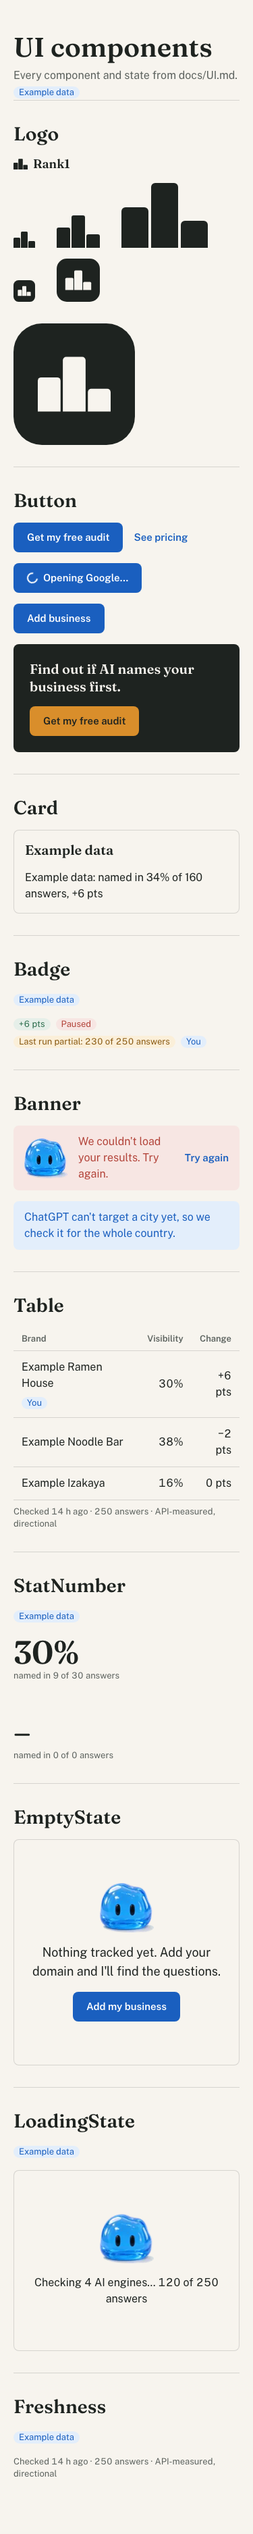
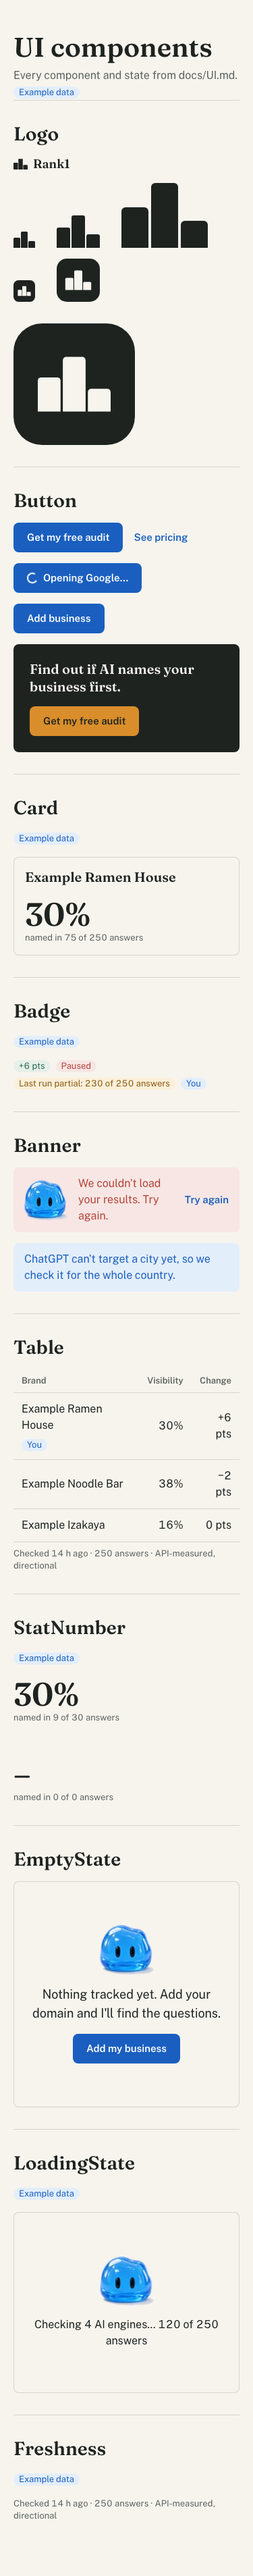
step 0: qa report (final)

diff --git a/docs/QA.md b/docs/QA.md
@@ -1,12 +1,12 @@
 # QA
 
-## Step 0: Set up the project (re-run)
+## Step 0: Set up the project (final)
 
-Checked 2026-11-05 on commit d864d72 (branch step-0-claude-md).
-Preview: https://rank1-c5us4op76-bryan-flowhighlevels-projects.vercel.app (Vercel API: git ref step-0-claude-md, sha d864d72, READY).
+Checked 2026-11-05 on commit 26a1aef (branch step-0-claude-md).
+Preview: https://rank1-oq7rbwrkg-bryan-flowhighlevels-projects.vercel.app (Vercel API: git ref step-0-claude-md, sha 26a1aef, READY).
 Preview runs use VERCEL_AUTOMATION_BYPASS_SECRET from .env.local, sent as x-vercel-protection-bypass (playwright.config.ts).
 
-Result: FAIL. 1 blocking problem, listed at the end. The axe failure from the first run is fixed.
+Result: PASS. Every check passes locally and on the preview. No blocking problems.
 
 ### Commands
 
@@ -15,10 +15,10 @@ Result: FAIL. 1 blocking problem, listed at the end. The axe failure from the fi
 | `pnpm test` | PASS. 7 files, 28 tests passed |
 | `pnpm typecheck` | PASS. exit 0 |
 | `pnpm lint` | PASS. exit 0 |
-| `pnpm e2e` (local, `.next` deleted first, fresh `next build`) | PASS. 12 passed, 0 failed |
-| `E2E_BASE_URL=<preview> pnpm e2e` | PASS. 12 passed, 0 failed |
+| `pnpm e2e` (local, `.next` deleted first, fresh `next build`) | PASS. 14 passed, 0 failed |
+| `E2E_BASE_URL=<preview> pnpm e2e` | PASS. 14 passed, 0 failed |
 
-Tests changed since the first run: tests/unit/tokens.test.ts changed only the errorBg value to #F7E6E3 (matches UI.md). New: tests/unit/ui/logo.test.tsx, tests/unit/example-data.test.ts, tests/e2e/logo.spec.ts, tests/e2e/dev-ui-example-data.spec.ts. No test deleted, skipped or weakened.
+Tests changed since the first run: tests/unit/tokens.test.ts changed only the errorBg value to #F7E6E3 (matches UI.md). New: tests/unit/ui/logo.test.tsx, tests/unit/example-data.test.ts, tests/e2e/logo.spec.ts, tests/e2e/dev-ui-example-data.spec.ts. 26a1aef adds one test to tests/e2e/dev-ui-example-data.spec.ts (Card demo is Example Ramen House, "34% of 160 answers" absent). No test deleted, skipped or weakened.
 
 ### TASKS.md step 0
 
@@ -42,9 +42,9 @@ Tests changed since the first run: tests/unit/tokens.test.ts changed only the er
 | 375px has no horizontal scroll | PASS | preview: scrollWidth 375 at 375px, 1280 at 1280px |
 | Tap targets >= 44px | PASS | dev-ui.spec.ts:28 passed, local and preview |
 | No secrets in client bundle | PASS | Fresh local build (20 files in .next/static): no match for `sk_(test|live)_`, `whsec_`, `service_role`, JWT `eyJhbGciOi`, `pplx-`, `re_`, `GOCSPX-`; no server-only env name from .env.example; neither .env.local value present |
-| No fake numbers | FAIL | Badge, Table, StatNumber, LoadingState and Freshness now use example-data.ts, and every section is labeled Example data (dev-ui-example-data.spec.ts passed). One string is still typed in: src/app/dev/ui/page.tsx:78 "Example data: named in 34% of 160 answers, +6 pts". The numbers in the Logo section (lines 50, 56) are pixel sizes, not stats |
+| No fake numbers | PASS | Every gallery number comes from example-data.ts. The Card demo is "Example Ramen House" with StatNumber 30%, "named in 75 of 250 answers" (exampleLeaderboard). The old hand-typed "34% of 160 answers" is gone (grep of page.tsx: no stat literals; new e2e assertion passed). Every example section is labeled Example data. Numbers in the Logo section are pixel sizes |
 | Sample size + freshness shown | PASS | StatNumber "named in 9 of 30 answers"; Freshness "Checked 14 h ago · 250 answers · API-measured, directional" |
-| /dev/ui hidden in production | PASS | production deployment rank1-i4qctuh3f: /dev/ui 404 |
+| /dev/ui hidden in production | PASS | production deployment rank1-i4qctuh3f (latest production): /dev/ui 404 |
 
 ### Favicon (preview)
 
@@ -61,4 +61,4 @@ Tests changed since the first run: tests/unit/tokens.test.ts changed only the er
 
 ### Blocking problems
 
-1. Hardcoded gallery numbers: src/app/dev/ui/page.tsx:78 ("34% of 160 answers, +6 pts") is not built from example-data.ts. It is the exact COPY.md hero card string and labeled Example data, but its numbers don't come from example-data.ts, which the gallery numbers rule requires.
+None.
